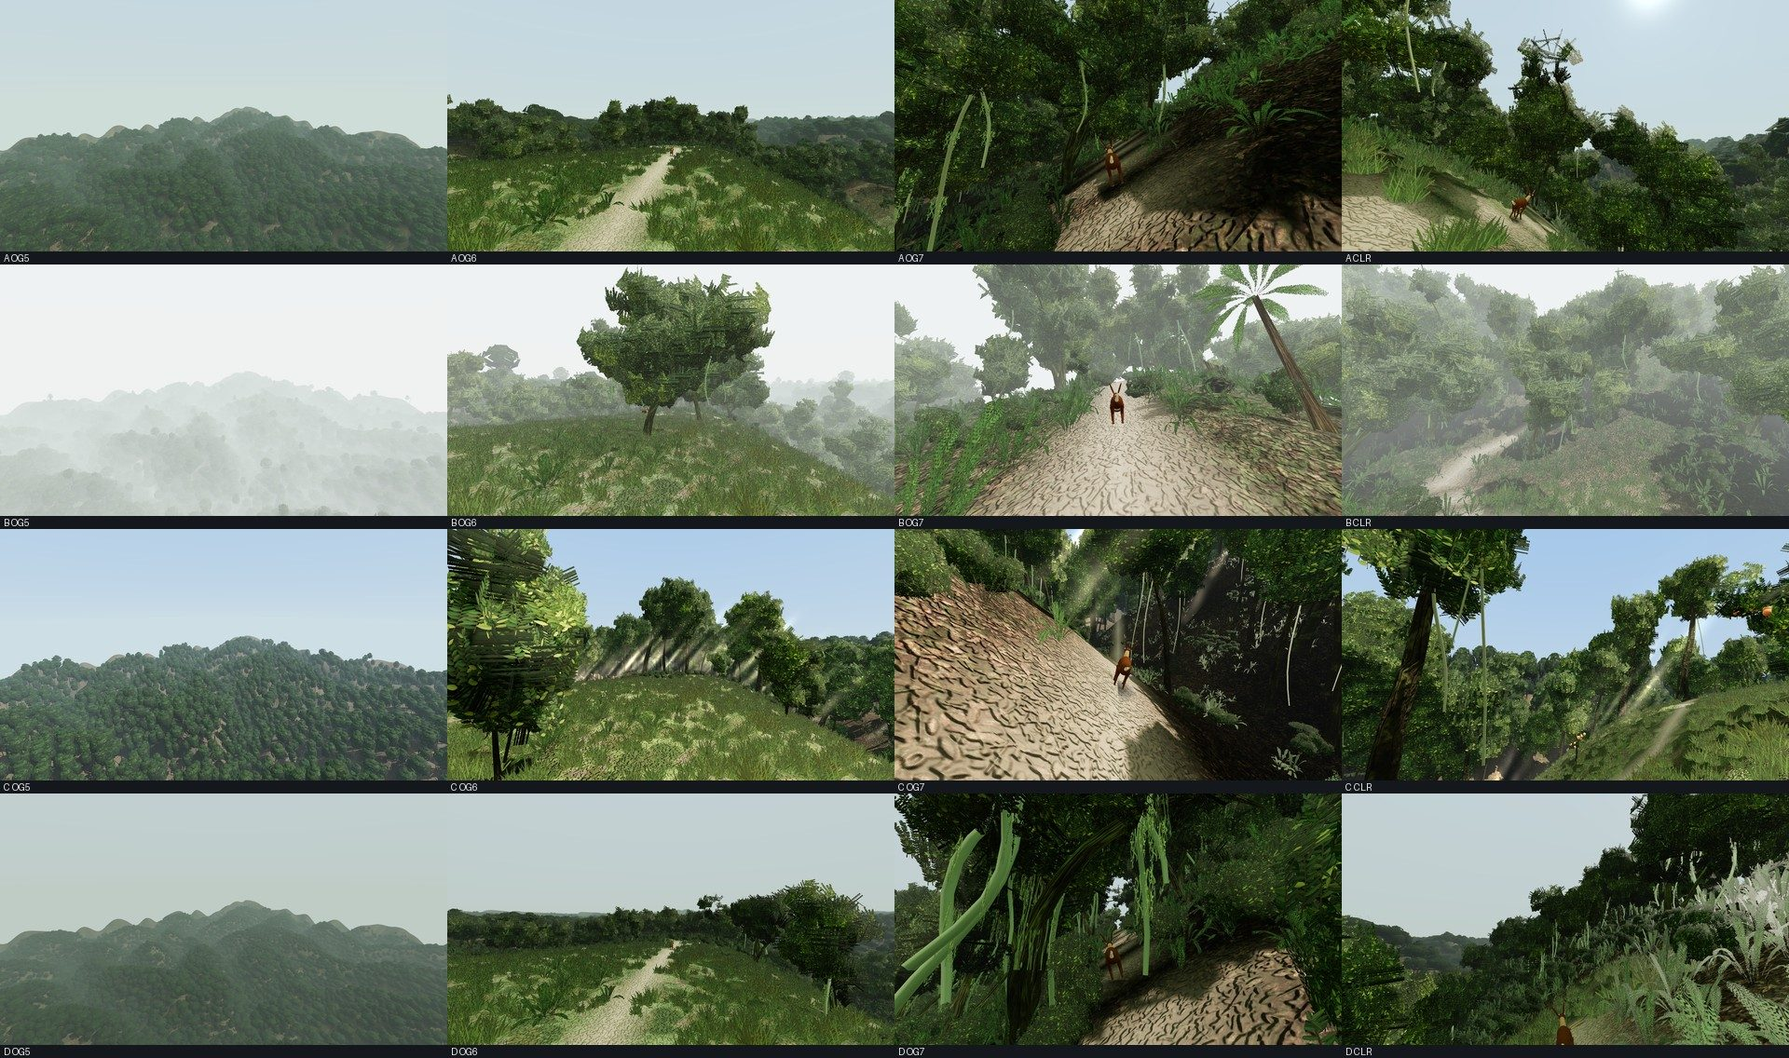
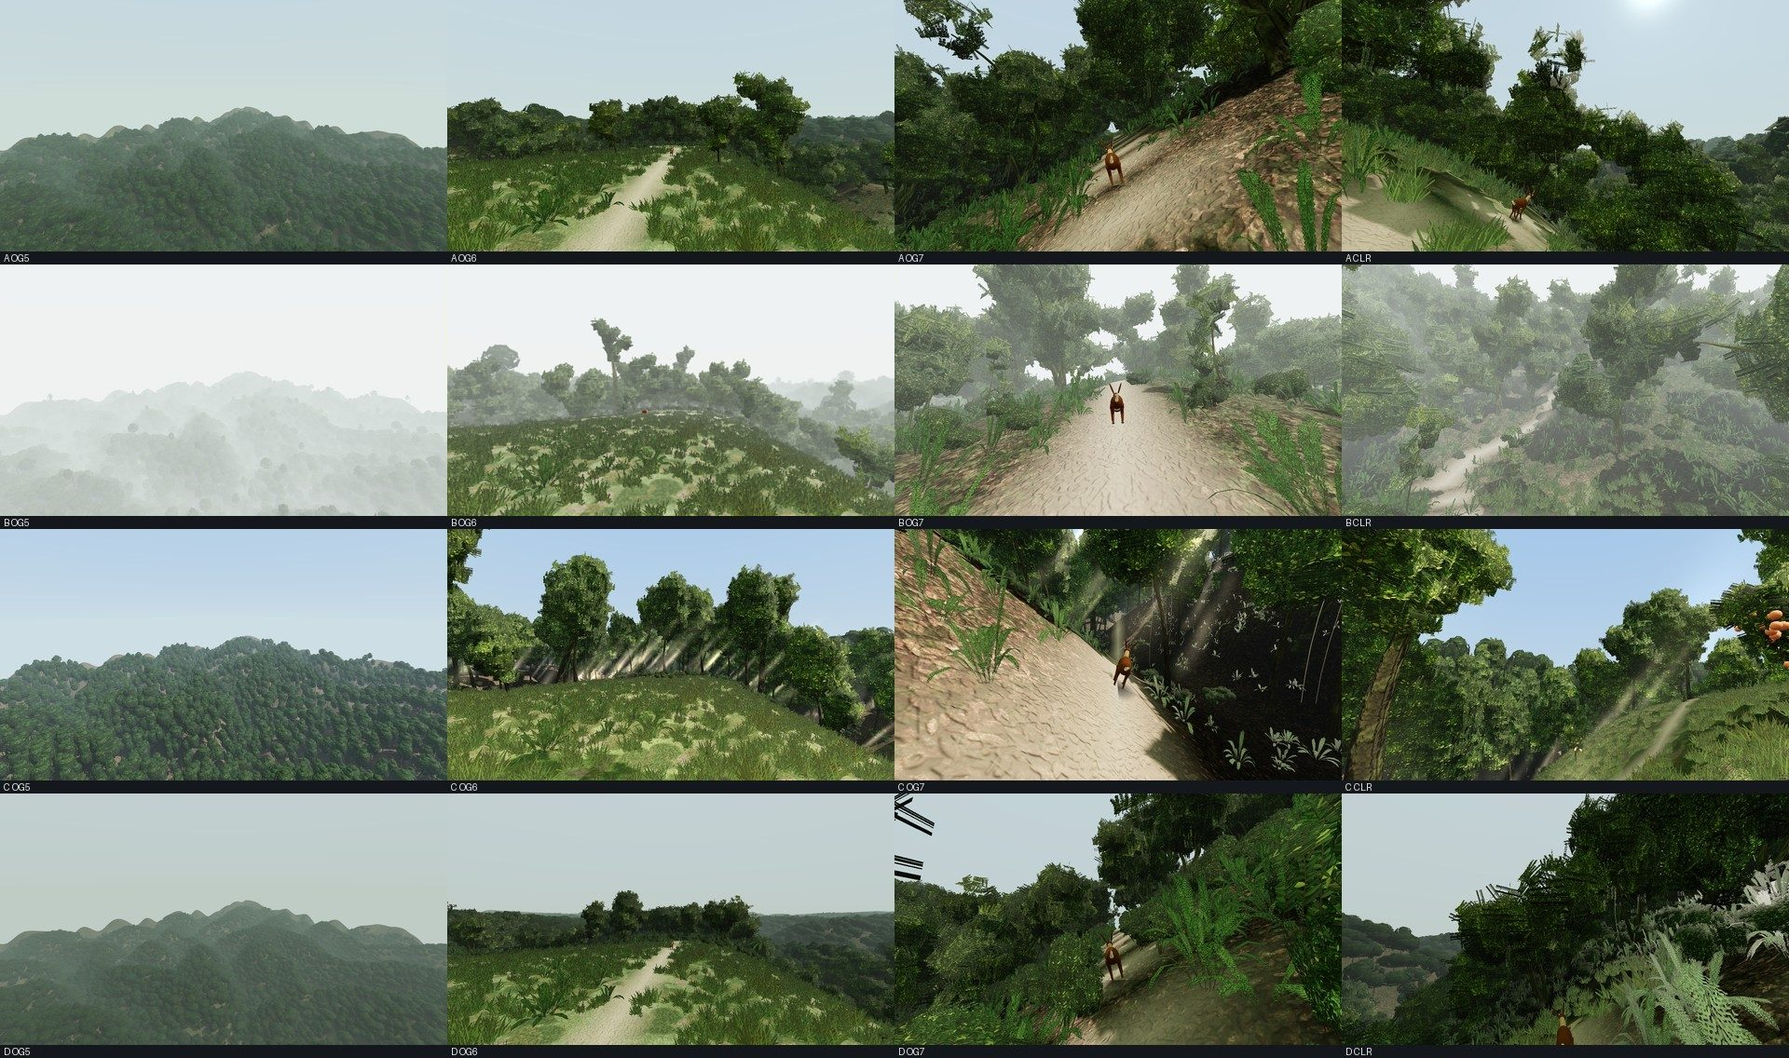
Forest lab final pass: soft packed-earth trail, thin woody vines, proper tree ferns, denser canopies, camera clearance

Changed region(s): [[0.1562, 0.0, 1.0, 1.0]]

diff --git a/web/gaitlab/forest_core.js b/web/gaitlab/forest_core.js
@@ -56,12 +56,12 @@ const VERSIONS={
  A:{id:'A',name:'Laurisilva',org:'Tenerife Anaga / La Gomera Garajonay, Madeira Fanal',
   tag:'Closure about 85%. Two layers: a 15-22 m laurel canopy over a fern understory. Soft green diffuse light, no shafts. Narrow 1.2 m trails, few clearings.',
   classes:{
-   canopy:{clumpScale:1.3,src:'laurel',dens:140,minD:.6,H:[15,22],dbh:[.42,1.15],firstBr:[3,6.5],crownR:[4.2,5.6],buttA:.3,buttN:5,buttH:1.6,limbs:6,clumpR:2.7,nClump:14,layers:2,lean:.1,moss:.55,epi:.5,hang:.35,vines:3,vineMoss:.25,leaf:'laurel',nv:5,cardSize:1.5,leafDensity:1.1},
+   canopy:{clumpScale:1.5,src:'laurel',dens:140,minD:.6,H:[15,22],dbh:[.42,1.15],firstBr:[3,6.5],crownR:[4.2,5.6],buttA:.3,buttN:5,buttH:1.6,limbs:6,clumpR:2.7,nClump:14,layers:2,lean:.1,moss:.55,epi:.5,hang:.35,vines:3,vineMoss:.25,leaf:'laurel',nv:5,cardSize:1.5,leafDensity:1.1},
    under:{src:'small',dens:95,minD:.7,H:[4.5,8],dbh:[.1,.22],firstBr:[2.3,3],crownR:[1.8,2.6],buttA:.1,buttN:4,buttH:.8,limbs:3,clumpR:1.5,nClump:5,layers:1,lean:.1,moss:.3,epi:.2,hang:.1,vines:0,vineMoss:0,leaf:'laurel',nv:3,cardSize:1.1,leafDensity:.9},
    sap:{src:'sap',dens:110,minD:.4,nv:3,leaf:'laurel',cardSize:.8,leafDensity:.8,moss:.4,epi:0,hang:0,vines:0,vineMoss:0,clumpScale:.7},
-   tfern:{dens:22,minD:.9,H:[2.4,4.6],r:.12,fl:1.9}},
+   tfern:{dens:22,minD:.9,H:[3,5],r:.1,fl:2.6}},
   ug:{fern:{lam:.6,r:[.5,.8],h:[.55,1.3]},fernL:{lam:.2,r:[.7,1.1],h:[1,1.5]},shrub:{lam:.05,r:[.7,1.1],h:[.8,1.6]},light:[.7,1.25]},
-  gaps:1.4,logs:6,rocks:10,trail:{w:1.2,stream:false},clearings:[[250,20,9],[430,-16,10]],
+  gaps:1.0,logs:6,rocks:10,trail:{w:1.2,stream:false},clearings:[[250,20,9],[430,-16,10]],
   light:{sunAz:.9,sunEl:.78,sunI:.9,sunCol:[1,.93,.78],hemiI:1.55,hemiSky:[.62,.82,.58],hemiGnd:[.2,.17,.1],exp:.95,sky:[.52,.66,.78],hor:[.76,.84,.82]},
   fog:{den:.0042,k:.035,base:-5,far:.0016,col:[.62,.72,.69]},shafts:false,aoK:1.45,moss:.45,skyGamma:1,mossGround:.45},
  B:{id:'B',name:'Cloud forest',org:'Monteverde, Garajonay "Bosque Encantado", Fanal fog',
@@ -71,33 +71,33 @@ const VERSIONS={
    canopy:{clumpScale:1.3,src:'laurel',dens:140,minD:.6,H:[13,19],dbh:[.42,1.05],firstBr:[2.8,5.5],crownR:[3.8,5.2],buttA:.3,buttN:5,buttH:1.4,limbs:6,clumpR:2.6,nClump:15,layers:2,lean:.16,moss:.9,epi:1.2,hang:1.1,vines:5,vineMoss:.8,leaf:'cloud',nv:5,cardSize:1.45,leafDensity:1.05},
    under:{src:'small',dens:125,minD:.7,H:[4,7],dbh:[.08,.2],firstBr:[2.3,3],crownR:[1.8,2.6],buttA:.1,buttN:4,buttH:.8,limbs:3,clumpR:1.5,nClump:5,layers:1,lean:.14,moss:.8,epi:.5,hang:.4,vines:0,vineMoss:0,leaf:'cloud',nv:3,cardSize:1.05,leafDensity:.9},
    sap:{src:'sap',dens:150,minD:.4,nv:3,leaf:'cloud',cardSize:.8,leafDensity:.8,moss:.8,epi:0,hang:0,vines:0,vineMoss:0,clumpScale:.7},
-   tfern:{dens:55,minD:.9,H:[2.4,5.2],r:.13,fl:2.1}},
+   tfern:{dens:55,minD:.9,H:[3,5],r:.1,fl:2.6}},
   ug:{fern:{lam:.72,r:[.5,.85],h:[.55,1.3]},fernL:{lam:.22,r:[.7,1.1],h:[1,1.5]},shrub:{lam:.06,r:[.7,1.1],h:[.8,1.5]},light:[.8,1.2]},
-  gaps:1.8,logs:26,rocks:26,trail:{w:1.5,stream:true},clearings:'springs',
+  gaps:.9,logs:26,rocks:26,trail:{w:1.5,stream:true},clearings:'springs',
   light:{sunAz:.9,sunEl:.74,sunI:1.15,sunCol:[1,.95,.85],hemiI:1.45,hemiSky:[.78,.86,.8],hemiGnd:[.2,.2,.16],exp:1.0,sky:[.86,.89,.89],hor:[.86,.89,.88]},
-  fog:{den:.058,k:.028,base:-10,far:.0042,col:[.86,.89,.88]},shafts:false,aoK:2.0,moss:.95,skyGamma:1,mossGround:.8},
+  fog:{den:.058,k:.028,base:-10,far:.0042,col:[.86,.89,.88]},shafts:false,aoK:2.4,moss:.95,skyGamma:1,mossGround:.8},
  C:{id:'C',name:'Cathedral',org:'tall emergent forest, Hoh and lowland rainforest light',
   tag:'Closure about 80% with buttressed emergents to 30 m over tall straight canopy trunks. Open understory except in gaps. Strong light shafts in 3-4 large clearings with fruit trees and a landmark giant; 2 m trails.',
   classes:{
    giant:{clumpScale:2.1,src:'giant',dens:20,minD:.9,H:[26,32],dbh:[1.4,2.3],firstBr:[13,18],crownR:[7.5,9.5],buttA:1.35,buttN:5,buttH:3.6,limbs:7,clumpR:3.6,nClump:15,layers:1,lean:.03,moss:.3,epi:.5,hang:.15,vines:3,vineMoss:.2,leaf:'broad',nv:2,cardSize:1.8,leafDensity:1.0},
-   canopy:{clumpScale:2.1,src:'tall',dens:135,minD:.62,H:[19,25],dbh:[.5,1.0],firstBr:[9,14],crownR:[4.8,6],buttA:.55,buttN:5,buttH:2.2,limbs:6,clumpR:2.9,nClump:13,layers:1,lean:.03,moss:.25,epi:.2,hang:.1,vines:2,vineMoss:.2,leaf:'broad',nv:3,cardSize:1.6,leafDensity:.95},
+   canopy:{clumpScale:2.5,src:'tall',dens:135,minD:.62,H:[19,25],dbh:[.5,1.0],firstBr:[9,14],crownR:[4.8,6],buttA:.55,buttN:5,buttH:2.2,limbs:6,clumpR:2.9,nClump:13,layers:1,lean:.03,moss:.25,epi:.2,hang:.1,vines:2,vineMoss:.2,leaf:'broad',nv:3,cardSize:1.6,leafDensity:.95},
    under:{src:'small',dens:28,minD:.8,H:[4,8],dbh:[.1,.2],firstBr:[2.4,3.2],crownR:[1.8,2.8],buttA:.1,buttN:4,buttH:.8,limbs:3,clumpR:1.6,nClump:5,layers:1,lean:.08,moss:.2,epi:.1,hang:0,vines:0,vineMoss:0,leaf:'broad',nv:3,cardSize:1.2,leafDensity:.9},
    sap:{src:'sap',dens:22,minD:.4,nv:3,leaf:'broad',cardSize:.8,leafDensity:.8,moss:.2,epi:0,hang:0,vines:0,vineMoss:0,clumpScale:.7},
-   tfern:{dens:14,minD:.9,H:[2.5,4.5],r:.12,fl:2},
+   tfern:{dens:14,minD:.9,H:[3,5],r:.1,fl:2.6},
    fruit:{src:'small',dens:0,minD:.8,H:[5,8],dbh:[.2,.34],firstBr:[2.4,3],crownR:[2.6,3.4],buttA:.15,buttN:4,buttH:1,limbs:4,clumpR:1.8,nClump:7,layers:1,lean:.1,moss:.1,epi:0,hang:0,vines:0,vineMoss:0,leaf:'broad',nv:2,cardSize:1.2,leafDensity:.9,fruit:.9}},
   ug:{fern:{lam:.04,r:[.5,.8],h:[.55,1.2]},fernL:{lam:.02,r:[.7,1.1],h:[1,1.5]},shrub:{lam:.012,r:[.7,1.1],h:[.8,1.5]},light:[.45,7.5]},
-  gaps:.8,logs:6,rocks:8,trail:{w:2.0,stream:false},clearings:[[130,16,21],[290,-22,24],[440,12,19],[560,-14,17]],
+  gaps:.5,logs:6,rocks:8,trail:{w:2.0,stream:false},clearings:[[130,16,21],[290,-22,24],[440,12,19],[560,-14,17]],
   light:{sunAz:.9,sunEl:.82,sunI:2.1,sunCol:[1,.9,.72],hemiI:1.5,hemiSky:[.62,.78,.6],hemiGnd:[.16,.15,.09],exp:.88,sky:[.34,.55,.82],hor:[.74,.82,.86]},
   fog:{den:.0024,k:.03,base:-5,far:.0012,col:[.62,.73,.78]},shafts:true,aoK:2.1,moss:.3,skyGamma:1,mossGround:.35},
  D:{id:'D',name:'Tangle',org:'dwarf cloud forest, Honduras Cusuco, Fanal scrub',
   tag:'Closure about 95%. Low 10-14 m crooked canopy hung with lianas. Darkest light, very dense undergrowth that slows you most; game trails are the only fast way.',
   classes:{
-   canopy:{clumpScale:1.3,src:'crooked',dens:250,minD:.55,H:[9,14],dbh:[.3,.75],firstBr:[2.8,4.4],crownR:[3,4.2],buttA:.25,buttN:5,buttH:1,limbs:6,clumpR:2.2,nClump:13,layers:2,lean:.34,moss:.7,epi:.6,hang:.7,vines:9,vineMoss:.5,leaf:'small',nv:3,cardSize:1.2,leafDensity:.85},
+   canopy:{clumpScale:1.5,src:'crooked',dens:250,minD:.55,H:[9,14],dbh:[.3,.75],firstBr:[2.8,4.4],crownR:[3,4.2],buttA:.25,buttN:5,buttH:1,limbs:6,clumpR:2.2,nClump:13,layers:2,lean:.34,moss:.7,epi:.6,hang:.7,vines:9,vineMoss:.5,leaf:'small',nv:3,cardSize:1.2,leafDensity:.85},
    under:{src:'small',dens:110,minD:.55,H:[3,5.5],dbh:[.06,.16],firstBr:[2.2,3],crownR:[1.5,2.3],buttA:.08,buttN:4,buttH:.6,limbs:3,clumpR:1.35,nClump:5,layers:1,lean:.2,moss:.5,epi:.2,hang:.3,vines:2,vineMoss:.4,leaf:'small',nv:3,cardSize:.95,leafDensity:1.0},
    sap:{src:'sap',dens:190,minD:.4,nv:3,leaf:'small',cardSize:.8,leafDensity:.8,moss:.6,epi:0,hang:0,vines:0,vineMoss:0,clumpScale:.7},
-   tfern:{dens:75,minD:.8,H:[2,4.2],r:.12,fl:1.9}},
+   tfern:{dens:75,minD:.8,H:[3,4.5],r:.1,fl:2.4}},
   ug:{fern:{lam:1.1,r:[.55,.95],h:[.7,1.5]},fernL:{lam:.36,r:[.8,1.2],h:[1.2,1.8]},shrub:{lam:.3,r:[.8,1.3],h:[1,1.9]},light:[.9,1.1]},
-  gaps:1.6,logs:14,rocks:14,ugR:42,trail:{w:1.0,stream:false},clearings:[[330,10,5]],
+  gaps:1.0,logs:14,rocks:14,ugR:42,trail:{w:1.0,stream:false},clearings:[[330,10,5]],
   light:{sunAz:.9,sunEl:.7,sunI:.95,sunCol:[1,.92,.8],hemiI:1.3,hemiSky:[.54,.74,.5],hemiGnd:[.13,.14,.08],exp:1.0,sky:[.55,.65,.7],hor:[.68,.76,.73]},
   fog:{den:.0075,k:.045,base:-6,far:.0022,col:[.52,.6,.56]},shafts:false,aoK:1.9,moss:.55,skyGamma:1,mossGround:.55}
 };
@@ -302,6 +302,7 @@ class Stand{
     const hash=new Map(),hkey=(x,z)=>Math.floor(x/4)+','+Math.floor(z/4);
     const near=(x,z,r)=>{const ci=Math.floor(x/4),cj=Math.floor(z/4);for(let b=-2;b<=2;b++)for(let a=-2;a<=2;a++){const l=hash.get((ci+a)+','+(cj+b));if(l)for(const t of l){if(Math.hypot(t.x-x,t.z-z)<r+t.rad)return true;}}return false;};
     const place=(cls,x,z,dbhS,forceH)=>{
+      if(Math.hypot(x-OG6_L[0],z-OG6_L[1])<7)return {};   /* keep the OG6 camera clear of trees */
       const C=V.classes[cls];const nv=C.nv||1;
       const vi=Math.min(nv-1,Math.floor(rnd()*nv));
       const key=cls+vi;if(!protoParams[key])protoParams[key]=this.protoParams(cls,vi);
@@ -351,7 +352,7 @@ class Stand{
     if(C.src){const nm=C.src+(vi%ASSETS.count[C.src]),m=ASSETS.meta[nm];m.name=nm;
       return{src:C.src,vi,name:nm,m,H:m.H,dbh:m.dbh,firstBr:m.firstBr,leaf:C.leaf,tint:LEAFTINT[this.id],fruit:C.fruit||0,cardSize:C.cardSize,leafDensity:C.leafDensity*(C.src==='sap'?1:1.0),moss:C.moss,epi:C.epi,hang:C.hang,
         vines:C.vines,vineMoss:C.vineMoss,clumpScale:C.clumpScale||1,newLeaf:this.V.newLeaf==null?.2:this.V.newLeaf,alpha:SHARED?SHARED.leaf[C.leaf].userData.coverage:.5};}
-    if(cls==='tfern')return{H:lerp(C.H[0],C.H[1],u),r:C.r*j(),fl:C.fl*j(),lean:(R()-.5)*.8,dbh:C.r*2,firstBr:99};
+    if(cls==='tfern')return{H:lerp(C.H[0],C.H[1],u),r:C.r*j(),fl:C.fl*j(),lean:(R()-.5)*.25,dbh:C.r*2,firstBr:99};
     const H=lerp(C.H[0],C.H[1],u)*(.94+R()*.12),dbh=lerp(C.dbh[0],C.dbh[1],clamp(u+(R()-.5)*.4,0,1));
     return{H,dbh,taper:.62,buttA:C.buttA*(.8+R()*.4),buttN:C.buttN+(R()<.5?0:1)-0,buttH:C.buttH,firstBr:lerp(C.firstBr[0],C.firstBr[1],R()),crownR:lerp(C.crownR[0],C.crownR[1],R()),
       nLimbs:C.limbs,clumpR:C.clumpR*j(),nClump:C.nClump,layers:C.layers,lean:C.lean,moss:C.moss,epi:C.epi,hang:C.hang,vines:C.vines,vineMoss:C.vineMoss,leaf:C.leaf,

diff --git a/web/gaitlab/forest_trees.js b/web/gaitlab/forest_trees.js
@@ -149,19 +149,18 @@ function floorTex(kind,seed){
 }
 
 /* pale packed-earth trail strip (u across, v along, tiles along): fine grain, a few dry leaves, roots crossing it, pebbles; edge moss comes from the shader */
-function trailTex(seed){
+function trailTex(seed){ /* soft, low-frequency packed earth: very gentle mottling, faint litter specks, a few small stones, fine root lines; almost no contrast */
   const N=512,R=rng32(seed),cv=cvs(N,N),g=cv.getContext('2d'),hc=cvs(N,N),hg=hc.getContext('2d');
   const wrap=(x,y,r,fn)=>{for(const dy of[-N,0,N])for(const dx of[-N,0,N]){const X=x+dx,Y=y+dy;if(X<-r||Y<-r||X>N+r||Y>N+r)continue;fn(X,Y);}};
-  g.fillStyle='#9d8468';g.fillRect(0,0,N,N);hg.fillStyle='#707070';hg.fillRect(0,0,N,N);
+  g.fillStyle='#a58d70';g.fillRect(0,0,N,N);hg.fillStyle='#808080';hg.fillRect(0,0,N,N);
   const im=g.getImageData(0,0,N,N),D=im.data;
-  for(let y=0;y<N;y++)for(let x=0;x<N;x++){const u=x/N,v=y/N,m=pfbm(u*4,v*4,4,4,4,seed)-.5,f=pfbm(u*40,v*40,40,40,2,seed+3)-.5,i=(y*N+x)*4,k=1+m*.5+f*.28;D[i]*=k;D[i+1]*=k*.99;D[i+2]*=k*.97;}
+  for(let y=0;y<N;y++)for(let x=0;x<N;x++){const u=x/N,v=y/N,m=pfbm(u*3,v*3,3,3,3,seed)-.5,f=pfbm(u*24,v*24,24,24,2,seed+3)-.5,i=(y*N+x)*4,k=1+m*.22+f*.07;D[i]*=k;D[i+1]*=k;D[i+2]*=k;}
   g.putImageData(im,0,0);
-  for(let i=0;i<500;i++){const x=R()*N,y=R()*N,r=1+R()*2.4,hh=Math.round(100+R()*120),c=`hsl(${24+R()*12},${12+R()*14}%,${40+R()*26}%)`;wrap(x,y,r,(X,Y)=>{g.fillStyle=c;g.beginPath();g.arc(X,Y,r,0,6.3);g.fill();hg.fillStyle=`rgb(${hh},${hh},${hh})`;hg.beginPath();hg.arc(X,Y,r,0,6.3);hg.fill();});}
-  for(let i=0;i<12;i++){const x=R()*N,y=R()*N,a=R()*6.28,L=12+R()*18,W=L*.4,c=`hsl(${22+R()*16},${34+R()*16}%,${24+R()*16}%)`;
-    wrap(x,y,L,(X,Y)=>{g.save();g.translate(X,Y);g.rotate(a);g.fillStyle=c;g.beginPath();g.moveTo(0,0);g.bezierCurveTo(L*.2,-W*.7,L*.7,-W*.6,L,0);g.bezierCurveTo(L*.7,W*.6,L*.2,W*.7,0,0);g.fill();g.restore();});}
-  g.lineCap='round';for(let i=0;i<3;i++){const y0=R()*N,sl=(R()-.5)*160,w=9+R()*9;
-    for(const[c,col,lw]of[[g,'#4a3926',w],[g,'#6b543a',w*.45],[hg,'#d8d8d8',w]]){c.strokeStyle=col;c.lineWidth=lw;for(const dy of[-N,0,N]){c.beginPath();c.moveTo(-10,y0-sl*.5+dy);c.bezierCurveTo(N*.3,y0-sl*.2+dy+12,N*.6,y0+sl*.2+dy-10,N+10,y0+sl*.5+dy);c.stroke();}}}
-  const hb=cvs(N,N),hbg=hb.getContext('2d');hbg.filter='blur(1.4px)';hbg.drawImage(hc,0,0);
+  for(let i=0;i<70;i++){const x=R()*N,y=R()*N,L=3+R()*5,a=R()*6.28,c=`hsla(${26+R()*14},${22+R()*12}%,${34+R()*10}%,.5)`;wrap(x,y,L,(X,Y)=>{g.save();g.translate(X,Y);g.rotate(a);g.fillStyle=c;g.beginPath();g.ellipse(0,0,L,L*.4,0,0,6.3);g.fill();g.restore();});}   /* litter specks */
+  for(let i=0;i<10;i++){const x=R()*N,y=R()*N,r=3+R()*4;wrap(x,y,r,(X,Y)=>{g.fillStyle='hsla(30,8%,58%,.6)';g.beginPath();g.ellipse(X,Y,r,r*.75,0,0,6.3);g.fill();g.fillStyle='hsla(30,10%,35%,.25)';g.beginPath();g.ellipse(X+1.5,Y+1.5,r,r*.7,0,0,6.3);g.fill();hg.fillStyle='#a8a8a8';hg.beginPath();hg.ellipse(X,Y,r,r*.75,0,0,6.3);hg.fill();});}   /* small stones */
+  g.lineCap='round';for(let i=0;i<2;i++){const y0=R()*N,sl=(R()-.5)*120;
+    for(const[c,col,lw]of[[g,'rgba(88,68,46,.55)',3.5],[g,'rgba(140,116,88,.35)',1.5],[hg,'#9a9a9a',3]]){c.strokeStyle=col;c.lineWidth=lw;for(const dy of[-N,0,N]){c.beginPath();c.moveTo(-10,y0-sl*.5+dy);c.bezierCurveTo(N*.3,y0-sl*.2+dy+10,N*.6,y0+sl*.2+dy-8,N+10,y0+sl*.5+dy);c.stroke();}}}
+  const hb=cvs(N,N),hbg=hb.getContext('2d');hbg.filter='blur(2px)';hbg.drawImage(hc,0,0);
   return{map:tex(cv),height:tex(hb)};
 }
 
@@ -400,11 +399,11 @@ function skeletonParts(woods,m,P,lod,seed){
       for(let j=0;j<ne;j++){const p=lp[Math.floor(R()*lp.length)].clone().add(V3(0,.12,0)),nf=6+Math.floor(R()*4);
         for(let q=0;q<nf;q++){const ang=q/nf*6.28+R()*.4,e=.4+R()*.55,len=.8+R()*.8,dir=V3(Math.cos(ang)*Math.cos(e*.9),Math.sin(e),Math.sin(ang)*Math.cos(e*.9)),side=new T.Vector3().crossVectors(dir,V3(0,1,0)).normalize();
           card(epi,p,side,dir,len*.35,len,()=>[0,1,0],[.8,.9,.7],[0,0],[1,1],.35,true);}}
-      for(let v=0;v<P.vines;v++){const a=lp[Math.floor(R()*lp.length)].clone();if(a.y<4)continue;
+      for(let v=0;v<Math.ceil(P.vines*.6);v++){const a=lp[Math.floor(R()*lp.length)].clone();if(a.y<5)continue;
         const down=R()<.55?R()*3:a.y*(.2+R()*.6),pp=[],drift=V3((R()-.5)*1.6,0,(R()-.5)*1.6),n=7;
         for(let i=0;i<=n;i++){const s=i/n;pp.push(V3(a.x+drift.x*s+Math.sin(s*5+v)*.25,a.y-(a.y-down)*s,a.z+drift.z*s+Math.cos(s*4+v)*.25));}
-        if(pp[n].y<vineReach)vineReach=pp[n].y;const th=.035+R()*.03;tube(bark,pp,s=>th*(1+.5*(1-s)),4,{uvScale:1,col:()=>[.2*(1-P.vineMoss*.4)+.02,.2+.1*P.vineMoss,.12]});
-        if(P.vineMoss>.2)for(let i=1;i<n;i+=2)card(moss,pp[i],V3(1,0,0),V3(0,1,0),.5,.7,()=>[0,1,0],[.7,.9,.6],[0,.2],[.5,.8],0,false);}
+        if(pp[n].y<vineReach)vineReach=pp[n].y;const th=.01+R()*.014;tube(bark,pp,s=>th*(1+.5*(1-s)),4,{uvScale:1,col:()=>[.07+.02*P.vineMoss,.06+.04*P.vineMoss,.035]});
+        if(P.vineMoss>.3&&R()<.5)for(let i=2;i<n;i+=3)card(moss,pp[i],V3(1,0,0),V3(0,1,0),.3,.45,()=>[0,1,0],[.35,.45,.28],[0,.2],[.5,.8],0,false);}
     }
   }
   const barkGeo=wood||(bark.tris?bark.geo():null);
@@ -448,18 +447,17 @@ function grassParts(seed,lod){
     card(gb,c,rt,V3(0,1,0),w,h,()=>[0,1,0],[.9,.95,.85],[0,0],[1,1],.35,true);}
   return{g:gb.geo(),tris:gb.tris};
 }
-function treeFernParts(seed,o,lod){
-  const R=rng32(seed*23+9),bark=new GB(),leaf=new GB(),H=o.H;
-  const pts=[];for(let i=0;i<=(lod===0?6:3);i++){const t=i/(lod===0?6:3);pts.push(V3(o.lean*t*t*H*.2,H*t,0));}
-  tube(bark,pts,(t)=>o.r*(1-.35*t)*(1+.35*Math.exp(-t*12)),lod===0?7:5,{uvScale:.5,uvU:2,col:(t)=>[.6-.2*t,.5-.18*t,.38]});
-  const top=pts[pts.length-1],nf=lod===0?13:8;
-  for(let i=0;i<nf;i++){
-    const ang=i/nf*6.28+R()*.3,el=lerp(.1,1.0,R()),L=o.fl*(.8+R()*.4),w=L*.3,dir=V3(Math.cos(ang),0,Math.sin(ang)),side=V3(-Math.sin(ang),0,Math.cos(ang));
-    const ids=[],seg=3;
-    for(let s=0;s<=seg;s++){const t=s/seg,c=top.clone().addScaledVector(dir,Math.cos(el)*L*t+.1);c.y+=Math.sin(el)*L*t-L*.7*t*t*(.6+.5*(1-el));
-      const ww=w*Math.sin(Math.PI*(.2+.6*t))*.5+.03,sh=.55+.45*t;for(const sd of[-1,1]){const p=c.clone().addScaledVector(side,sd*ww);ids.push(leaf.v(p.x,p.y,p.z,0,1,0,sd<0?0:1,t,sh,sh,sh));}}
-    for(let s=0;s<seg;s++){const a=ids[s*2],b=ids[s*2+1],c=ids[s*2+2],d=ids[s*2+3];leaf.tri(a,b,c);leaf.tri(b,d,c);}
-  }
+function treeFernParts(seed,o,lod){ /* Cyathea-like: slim fibrous dark trunk, crown of long arching bipinnate fronds, skirt of dead hanging fronds */
+  const R=rng32(seed*23+9),bark=new GB(),leaf=new GB(),H=o.H,nrg=lod===0?6:3;
+  const pts=[];for(let i=0;i<=nrg;i++){const t=i/nrg;pts.push(V3(o.lean*t*t*H*.12+Math.sin(t*3+seed)*.03*H*.1,H*t,0));}
+  tube(bark,pts,(t)=>o.r*(1-.25*t)*(1+.4*Math.exp(-t*14)),lod===0?8:5,{uvScale:.5,uvU:2,col:(t,th)=>[.2+.05*Math.sin(th*7+t*20),.14,.09]});
+  const top=pts[pts.length-1],nf=lod===0?18:11,seg=lod===0?5:3;
+  const frond=(ang,el,L,w,dead)=>{const dir=V3(Math.cos(ang),0,Math.sin(ang)),side=V3(-Math.sin(ang),0,Math.cos(ang)),ids=[];
+    for(let s2=0;s2<=seg;s2++){const t=s2/seg,c=top.clone().addScaledVector(dir,Math.cos(el)*L*t*(dead?.6:1)+.08);c.y+=Math.sin(el)*L*t-L*(dead?1.1:.85)*t*t*(.55+.5*(1-Math.min(1,el)));
+      const ww=w*Math.sin(Math.PI*(.15+.65*t))*.5+.03,sh=dead?.5:.55+.45*t,cl=dead?[.55*sh,.38*sh,.2*sh]:[sh,sh,sh];for(const sd of[-1,1]){const p=c.clone().addScaledVector(side,sd*ww);ids.push(leaf.v(p.x,p.y,p.z,0,1,0,sd<0?0:1,t,cl[0],cl[1],cl[2]));}}
+    for(let s2=0;s2<seg;s2++){const a=ids[s2*2],b2=ids[s2*2+1],c=ids[s2*2+2],d=ids[s2*2+3];leaf.tri(a,b2,c);leaf.tri(b2,d,c);}};
+  for(let i=0;i<nf;i++)frond(i/nf*6.28+R()*.3,lerp(.15,1.0,R()),o.fl*(1.0+R()*.4),o.fl*.4,false);
+  if(lod===0)for(let i=0;i<7;i++)frond(i/7*6.28+R()*.5,-.35-R()*.3,o.fl*.55,o.fl*.2,true);   /* dead frond skirt */
   return{bark:bark.geo(),leaf:leaf.geo(),tris:bark.tris+leaf.tris,meta:{H,r:o.r,crown:[top.x,top.y,top.z,o.fl*.7]}};
 }
 function logParts(seed,o,lod){

diff --git a/web/gaitlab/forest_scene.js b/web/gaitlab/forest_scene.js
@@ -99,20 +99,20 @@ class View{
       geo.setAttribute('aTrail',new T.Float32BufferAttribute(aT,1));geo.setAttribute('aMoss',new T.Float32BufferAttribute(aM,1));geo.setAttribute('aSky',new T.Float32BufferAttribute(aS,1));
       geo.setAttribute('aMead',new T.Float32BufferAttribute(aMd,1));geo.setAttribute('aRock',new T.Float32BufferAttribute(aR,1));geo.setIndex(idx);geo.computeBoundingSphere();return geo;
     };
-    const mat=F.patchMat(new T.MeshStandardMaterial({color:0xffffff,roughness:.96,metalness:0,bumpMap:F.SHARED.floor.litter.height,bumpScale:.3}),this.U,{terrain:true,mask:[1,0,0],
+    const mat=F.patchMat(new T.MeshStandardMaterial({color:0xffffff,roughness:.96,metalness:0,bumpMap:F.SHARED.floor.litter.height,bumpScale:.08}),this.U,{terrain:true,mask:[1,0,0],
       meadCol:new T.Color(...(this.id==='C'?[.13,.16,.05]:[.095,.12,.05])),mossK:1.0});
     const inner=new T.Mesh(mk(300,2,0),mat),outer=new T.Mesh(mk(F.EXT,6,300),mat);
     /* the trail: a soft-edged ribbon draped over the terrain (a 1.2 m trail cannot live in 2 m vertices) */
     {const tr=st.trail,pos=[],nor=[],aT=[],uv=[],aS=[],z0=[],idx=[],n=tr.pts.length,w=tr.w*.5+.32,nn=new T.Vector3();let k=0;
       for(let i=0;i<n;i++){const p=tr.pts[i],q=tr.pts[Math.min(i+1,n-1)],r=tr.pts[Math.max(i-1,0)];let tx=q.x-r.x,tz=q.z-r.z;const L=Math.hypot(tx,tz)||1;tx/=L;tz/=L;
         const wob=1+.22*Math.sin(i*.37)+.12*Math.sin(i*1.31);
-        for(const sd of[-1,0,1]){const x=p.x-tz*sd*w*wob,zz=p.z+tx*sd*w*wob,y=g.at(x,zz)+.1+(sd===0?.02:0);g.normal(x,zz,nn);
+        for(const sd of[-1,0,1]){const x=p.x-tz*sd*w*wob,zz=p.z+tx*sd*w*wob,y=g.at(x,zz)+.16+(sd===0?.02:0);g.normal(x,zz,nn);
           pos.push(x,y,zz);nor.push(nn.x,nn.y,nn.z);aT.push(sd===0?1:.0);uv.push(sd*.5+.5,p.s/3);aS.push(st.skyAt(x,zz));}
         if(i<n-1){const a=i*3;idx.push(a,a+3,a+1,a+1,a+3,a+4,a+1,a+4,a+2,a+2,a+4,a+5);}}
       const geo=new T.BufferGeometry();geo.setAttribute('position',new T.Float32BufferAttribute(pos,3));geo.setAttribute('normal',new T.Float32BufferAttribute(nor,3));geo.setAttribute('uv',new T.Float32BufferAttribute(uv,2));
       const zero=new Array(n*3).fill(0);geo.setAttribute('aTrail',new T.Float32BufferAttribute(aT,1));geo.setAttribute('aMoss',new T.Float32BufferAttribute(zero,1));geo.setAttribute('aSky',new T.Float32BufferAttribute(aS,1));
       geo.setAttribute('aMead',new T.Float32BufferAttribute(zero,1));geo.setAttribute('aRock',new T.Float32BufferAttribute(zero,1));geo.setIndex(idx);
-      const rm=F.patchMat(new T.MeshStandardMaterial({color:0xffffff,roughness:.97,metalness:0,transparent:true,depthWrite:false,polygonOffset:true,polygonOffsetFactor:-3,polygonOffsetUnits:-3,bumpMap:F.SHARED.trail.height,bumpScale:.16}),this.U,{terrain:true,ribbon:true,mask:[1,1,0],meadCol:new T.Color(0,0,0),mossK:0});
+      const rm=F.patchMat(new T.MeshStandardMaterial({color:0xffffff,roughness:.97,metalness:0,transparent:true,depthWrite:false,polygonOffset:true,polygonOffsetFactor:-10,polygonOffsetUnits:-10,bumpMap:F.SHARED.trail.height,bumpScale:.05}),this.U,{terrain:true,ribbon:true,mask:[1,1,0],meadCol:new T.Color(0,0,0),mossK:0});
       const rib=new T.Mesh(geo,rm);rib.receiveShadow=true;rib.renderOrder=2;this.scene.add(rib);this.ribbon=rib;this.terrTris+=idx.length/3;}
     inner.receiveShadow=true;outer.receiveShadow=true;this.scene.add(inner,outer);this.terrain=[inner,outer];this.terrTris=TRI(inner.geometry)+TRI(outer.geometry);
   }
@@ -231,7 +231,7 @@ class View{
     if(opt.ug>0){
       const S16=16,ci=Math.floor(px/S16),cj=Math.floor(pz/S16),rc=Math.ceil(opt.ug/S16);
       for(let b=-rc;b<=rc;b++)for(let a=-rc;a<=rc;a++)for(const it of st.ugCell(ci+a,cj+b)){
-        const dx=it.x-px,dz=it.z-pz,d2=dx*dx+dz*dz;if(d2>opt.ug*opt.ug)continue;const lod=d2<30*30?0:1,p=this.ug[it.type+it.v][lod],nrm=p.n;
+        const dx=it.x-px,dz=it.z-pz,d2=dx*dx+dz*dz;if(d2>opt.ug*opt.ug||(py-it.y<4&&d2<2.6*2.6))continue;   /* never put a shrub around the camera */const lod=d2<30*30?0:1,p=this.ug[it.type+it.v][lod],nrm=p.n;
         const sx=it.r/nrm.reach,sy=it.h/nrm.height,sh=.3+.7*Math.min(1,st.skyAt(it.x,it.z)*3.5),tint=[it.c*sh*.95,it.c*sh,it.c*sh*.8];
         if(it.type==='shrub'){const mb=p.bark&&this.imesh('shrubB'+it.v+lod,p.bark,M.bark,4000,{});if(mb)put(mb,it.x,it.y,it.z,sx,sy,sx,it.yaw,tint);
           const ml=this.imesh('shrubL'+it.v+lod,p.leaf,M.shrub,4000,{cast:false});put(ml,it.x,it.y,it.z,sx,sy,sx,it.yaw,tint);}
